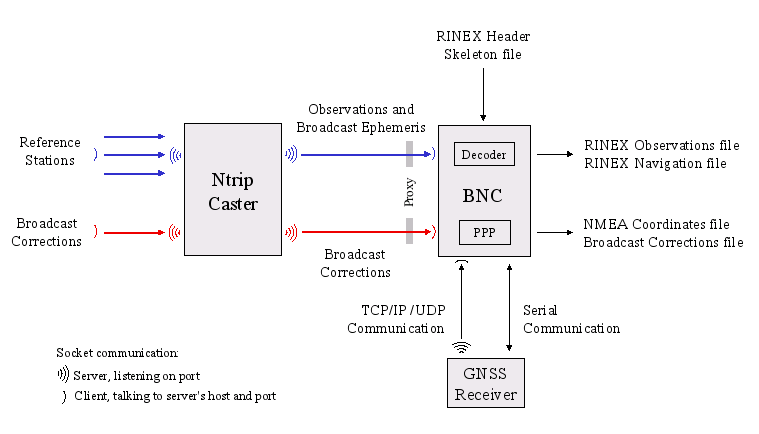
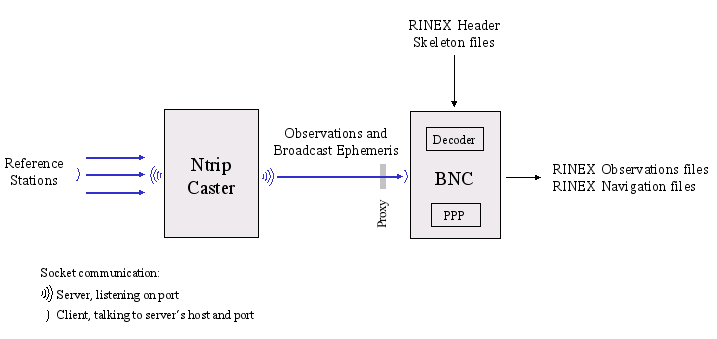
*** empty log message ***

diff --git a/BNC/bnchelp.html b/BNC/bnchelp.html
@@ -61,15 +61,21 @@ BNC allows to by-pass its decoding and conversion algorithms, leave whatever is 
 </p>
 
 <p>
-Fig. 1 shows a flow chart of BNC connected to a GNSS receiver via serial or TCP communication link. The purpose could i.e. be PPP or conversion of RTCM streams to RINEX files. Fig. 2 shows a flow chart of BNC feeding a real-time GNSS engine. The engine then estimates satellite orbit and clock correctors. The 'BKG Ntrip Server' (BNS) is used in this scenario to encode correctors to RTCMv3.
+Fig. 1 shows a flow chart of BNC connected to a GNSS receiver via serial or TCP communication link for the pupose of Precise Point Positioning. Fig. 2 shows the conversion of RTCM streams to RINEX batches. Fig. 3 shows a flow chart of BNC feeding a real-time GNSS engine. The engine then estimates satellite orbit and clock correctors. The 'BKG Ntrip Server' (BNS) is used in this scenario to encode correctors to RTCMv3.
+</p>
+<p><img src=":/bnchelp/screenshot10.png"/></p>
+<p><u>Fig. 1:</u> BNC connected to a GNSS receiver for Precise Point Positioning.</p>
+
+<p>
 </p>
 <p><img src=":/bnchelp/screenshot01.png"/></p>
-<p><u>Fig. 1:</u> BNC connected to a GNSS receiver.</p>
+<p><u>Fig. 2:</u> BNC converting RTCM streams to RINEX batches.</p>
 
 <p>
 </p>
 <p><img src=":/bnchelp/screenshot02.png"/></p>
-<p><u>Fig. 2:</u> BNC feeding a real-time GNSS engine.</p>
+<p><u>Fig. 3:</u> BNC feeding a real-time GNSS engine.</p>
+
 
 <p><a name="resources"><h3>2. Modes &amp; Resources</h3></p>
 <p>
@@ -87,10 +93,10 @@ Unless in offline mode, BNC
 
 <p><a name="options"><h3>3. Options</h3></p>
 <p>
-This section describes BNC's top menu bar, its processing options, the 'Streams' and 'Log' sections, and the bottom menu bar, see Fig. 3.
+This section describes BNC's top menu bar, its processing options, the 'Streams' and 'Log' sections, and the bottom menu bar, see Fig. 4.
 </p>
 <p><img src=":/bnchelp/screenshot09.png"/></p>
-<p><u>Fig. 3:</u> Sections on BNC's main window.</p>
+<p><u>Fig. 4:</u> Sections on BNC's main window.</p>
 
 </p>
 <p>
@@ -969,10 +975,10 @@ BNC can derive coordinates for a rover position following the Precise Point Posi
 </ul>
 </p>
 <p>
-Fig. 4. provides the screenshot of an example PPP session with BNC.
+Fig. 5. provides the screenshot of an example PPP session with BNC.
 </p>
 <p><img src=":/bnchelp/screenshot03.png"/></p>
-<p><u>Fig. 4:</u> Precise Point Positioning (PPP) with BNC.</p>
+<p><u>Fig. 5:</u> Precise Point Positioning (PPP) with BNC.</p>
 
 <p>
 PPP results are shown in the 'Log' tab on the bottom of BNC's main window. Depending on the processing options, the following values are shown about once per second (example):
@@ -1165,23 +1171,23 @@ Records of BNC's activities are shown in the 'Log' tab. They can be saved into a
 
 <p><a name="throughput"><h4>3.13.2 Throughput</h4></p>
 <p>
-The bandwidth consumption per stream is shown in the 'Throughput' tab in bits per second (bps) or kilo bits per second (kbps). Fig. 5 shows the bandwidth comsumption of a number of incoming streams.
+The bandwidth consumption per stream is shown in the 'Throughput' tab in bits per second (bps) or kilo bits per second (kbps). Fig. 6 shows the bandwidth comsumption of a number of incoming streams.
 </p>
 
 <p>
 </p>
 <p><img src=":/bnchelp/screenshot08.png"/></p>
-<p><u>Fig. 5:</u> Bandwidth consumption of a number of incoming streams.</p>
+<p><u>Fig. 6:</u> Bandwidth consumption of a number of incoming streams.</p>
 
 <p><a name="latency"><h4>3.13.3 Latency</h4></p>
 <p>
-The latency of observations in each incoming stream is shown in the 'Latency' tab in milliseconds or seconds. Streams not carrying observations (i.e. those providing only broadcast ephemeris messages) are not considered here and shown in read color. Note that the calculation of correct latencies requires the clock of the host computer to be properly synchronized. Fig. 6. shows the latency of a number of incoming streams.
+The latency of observations in each incoming stream is shown in the 'Latency' tab in milliseconds or seconds. Streams not carrying observations (i.e. those providing only broadcast ephemeris messages) are not considered here and shown in read color. Note that the calculation of correct latencies requires the clock of the host computer to be properly synchronized. Fig. 7. shows the latency of a number of incoming streams.
 </p>
 
 <p>
 </p>
 <p><img src=":/bnchelp/screenshot07.png"/></p>
-<p><u>Fig. 6:</u> Latency of incoming streams.</p>
+<p><u>Fig. 7:</u> Latency of incoming streams.</p>
 
 <p><a name="ppptab"><h4>3.13.4 PPP Plot</h4></p>
 <p>
@@ -1196,10 +1202,10 @@ The bottom menu bar allows to add or delete streams to BNC's configuration and t
 <p><a name="streamadd"><h4>3.14.1 Add Stream - Coming from Caster</h4></p>
 
 <p>
-Button 'Add Stream' opens a window that allows user to select one of several input communication links, see Fig. 7.
+Button 'Add Stream' opens a window that allows user to select one of several input communication links, see Fig. 8.
 </p>
 <p><img src=":/bnchelp/screenshot06.png"/></p>
-<p><u>Fig. 7:</u> Steam input communication links.</p>
+<p><u>Fig. 8:</u> Steam input communication links.</p>
 
 <p>
 Button 'Add Stream' &gt; 'Coming from Caster' then opens a window that allows user to select data streams from an NTRIP broadcaster according to their mountpoints.
@@ -1212,11 +1218,11 @@ Enter the NTRIP broadcaster host IP and port number. Note that EUREF and IGS ope
 
 <p><a name="streamtable"><h4>3.14.1.2 Casters Table - optional</h4></p>
 <p>
-It may be that your are not sure about your NTRIP broadcasters host and port number or you are interested in other broadcaster installations operated elsewhere. Hit 'Show' for a table of known broadcasters maintained at <u>www.rtcm-ntrip.org/home</u>. A window opens which allows to select a broadcaster for stream retrieval, see Fig. 8.
+It may be that your are not sure about your NTRIP broadcasters host and port number or you are interested in other broadcaster installations operated elsewhere. Hit 'Show' for a table of known broadcasters maintained at <u>www.rtcm-ntrip.org/home</u>. A window opens which allows to select a broadcaster for stream retrieval, see Fig. 9.
 </p> 
 </p>
 <p><img src=":/bnchelp/screenshot04.png"/></p>
-<p><u>Fig. 8:</u> Casters table.</p>
+<p><u>Fig. 9:</u> Casters table.</p>
 
 <p><a name="streamuser"><h4>3.14.1.3 User and Password - mandatory for protected streams</h4></p>
 <p>
@@ -1225,7 +1231,7 @@ Some streams on NTRIP broadcasters may be restricted. Enter a valid 'User' ID an
 
 <p><a name="gettable"><h4>3.14.1.4 Get Table</h4></p>
 <p>
-Use the 'Get Table' button to download the source-table from the NTRIP broadcaster. Pay attention to data fields 'format' and 'format-details'. Keep in mind that BNC can only decode and convert streams that come in RTCM Version 2.x, RTCM Version 3.x, or RTIGS format. RTCM Version 2.x streams must contain message types 18 and 19 or 20 and 21 while RTCM Version 3.x streams must contain GPS or SBAS message types 1002 or 1004 and may contain GLONASS message types 1010 or 1012, see data field 'format-details' for available message types and their repetition rates in brackets. Note that in order to produce RINEX Navigation files RTCM Version 3.x streams containing message types 1019 (GPS) and 1020 (GLONASS) are required. Select your streams line by line, use +Shift and +Ctrl when necessary. Fig. 9 provides an example source-table.
+Use the 'Get Table' button to download the source-table from the NTRIP broadcaster. Pay attention to data fields 'format' and 'format-details'. Keep in mind that BNC can only decode and convert streams that come in RTCM Version 2.x, RTCM Version 3.x, or RTIGS format. RTCM Version 2.x streams must contain message types 18 and 19 or 20 and 21 while RTCM Version 3.x streams must contain GPS or SBAS message types 1002 or 1004 and may contain GLONASS message types 1010 or 1012, see data field 'format-details' for available message types and their repetition rates in brackets. Note that in order to produce RINEX Navigation files RTCM Version 3.x streams containing message types 1019 (GPS) and 1020 (GLONASS) are required. Select your streams line by line, use +Shift and +Ctrl when necessary. Fig. 10 provides an example source-table.
 </p> 
 <p>
 The contents of data field 'nmea' tells you whether a stream retrieval needs to be initiated by BNC through sending an NMEA-GGA message carrying approximate position coordinates (virtual reference station).
@@ -1236,7 +1242,7 @@ Hit 'OK' to return to the main window. If you wish you can click on 'Add Stream'
 </p> 
 </p>
 <p><img src=":/bnchelp/screenshot05.png"/></p>
-<p><u>Fig. 9:</u> Broadcaster source-table.</p>
+<p><u>Fig. 10:</u> Broadcaster source-table.</p>
 
 <p><a name="ntripv"><h4>3.14.1.5 NTRIP Version - mandatory</h4></p>
 <p>
